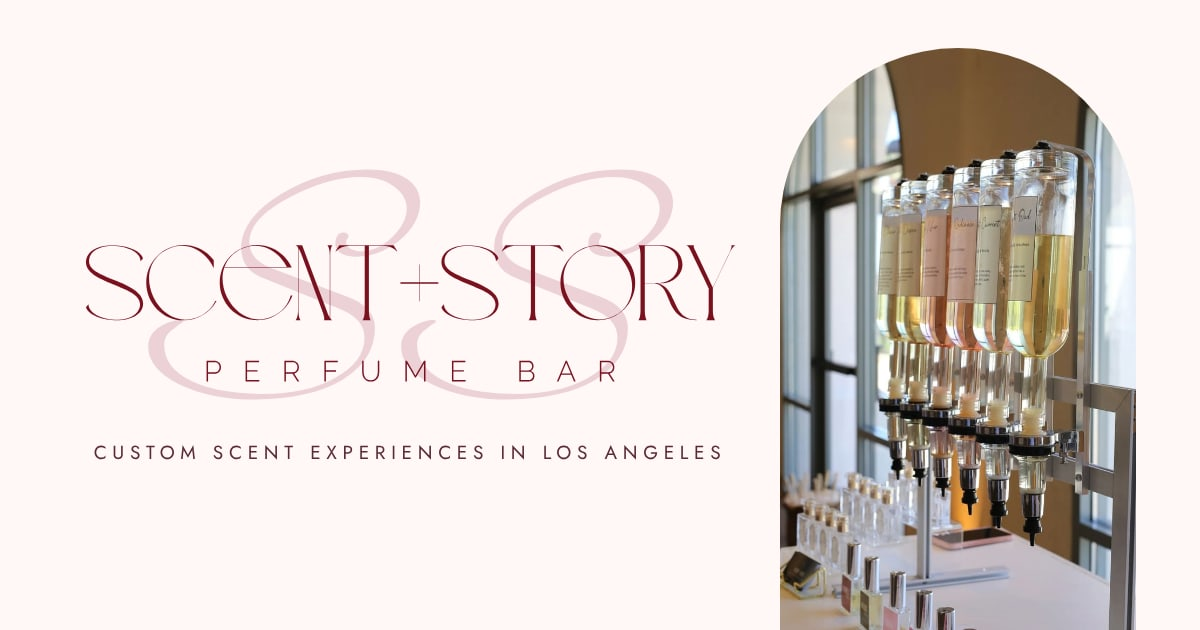
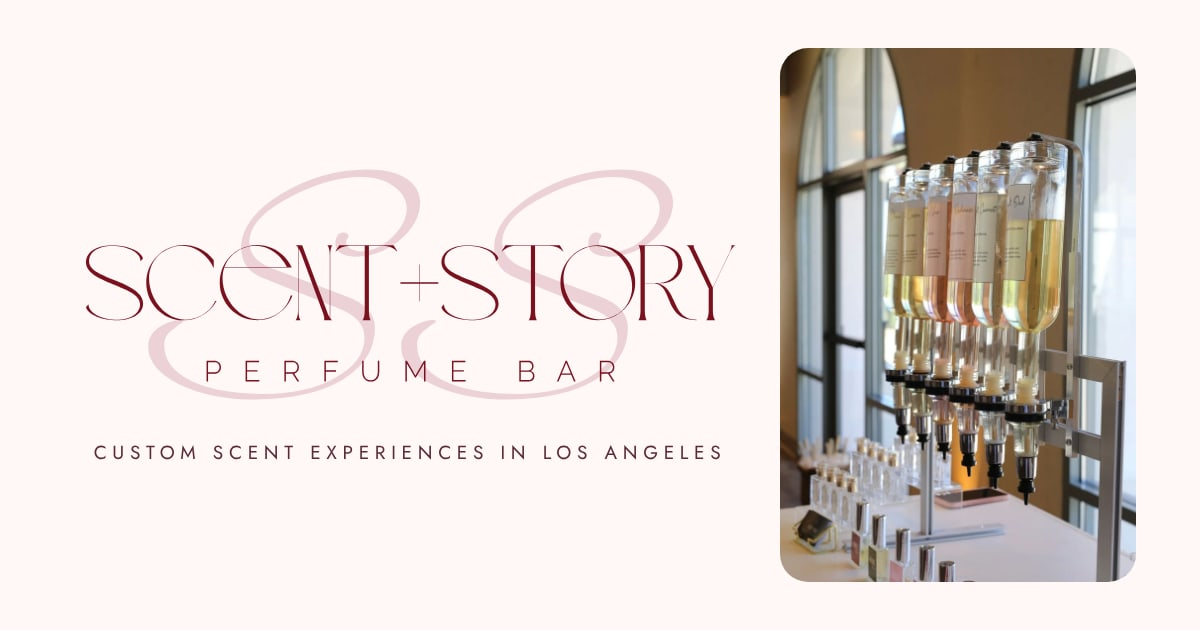
Drop the arch shape and fit the experience steps to any height
Every arched frame (hero, story, experience steps, notes, occasions,
packages, inquiry and the share image) is now a softly rounded
rectangle, and the hero zoom eases its corners from that radius.

The horizontal experience section sizes each step from the available
viewport height: photos shrink while the step text keeps its space,
type scales with svh, and the stagger uses transforms instead of extra
height. Below 34em of height (short windows or heavy browser zoom) the
section falls back to the stacked grid instead of pinning. Testimonial
quotes scale with height too. Verified with no clipped text from
1440x900 down to 720x450 and on phones in both orientations.

Scroll anchoring is off while the scroll driven layout runs, since it
pulled the page back after jumping to a section.

Claude-Session: https://claude.ai/code/session_017sCmnz6Y6ric2Efeva8pF5

Changed region(s): [[0.6475, 0.0603, 0.9558, 1.0]]

diff --git a/static/css/main.css b/static/css/main.css
@@ -47,7 +47,6 @@
   --section-y: clamp(5.5rem, 12vw, 11rem);
   --radius: 1.25rem;
   --radius-lg: clamp(1.25rem, 2.5vw, 2.25rem);
-  --arch: 999px 999px 0.75rem 0.75rem;
 
   --ease-out: cubic-bezier(0.16, 1, 0.3, 1);
   --ease-in-out: cubic-bezier(0.76, 0, 0.24, 1);
@@ -169,7 +168,7 @@ p { text-wrap: pretty; }
 .h1 { font-size: var(--step-h1); }
 .h2 { font-size: var(--step-h2); }
 
-.arch { border-radius: var(--arch); overflow: hidden; }
+.rounded { border-radius: var(--radius); overflow: hidden; }
 
 .icon { flex: none; }
 
@@ -426,8 +425,8 @@ a:hover .roll__b, a:focus-visible .roll__b { transform: translateY(0); }
 .hero__actions { display: flex; flex-wrap: wrap; align-items: center; gap: 1rem 2rem; }
 
 .hero__media { position: relative; justify-self: center; width: min(100%, 30rem); }
-.hero__arch { position: relative; aspect-ratio: 3 / 4; background: var(--rose); }
-.hero__arch picture, .hero__arch img { position: absolute; inset: 0; width: 100%; height: 100%; }
+.hero__frame { position: relative; aspect-ratio: 3 / 4; background: var(--rose); }
+.hero__frame picture, .hero__frame img { position: absolute; inset: 0; width: 100%; height: 100%; }
 .hero__img img { object-fit: cover; height: 116%; top: -8%; }
 
 .hero__badge {
@@ -526,8 +525,7 @@ a:hover .roll__b, a:focus-visible .roll__b { transform: translateY(0); }
   margin: 0;
 }
 .step { display: grid; gap: 1.25rem; align-content: start; }
-.step__media { position: relative; aspect-ratio: 4 / 5; overflow: hidden; border-radius: 0.75rem; background: var(--rose); }
-.step__media.arch { border-radius: var(--arch); }
+.step__media { position: relative; aspect-ratio: 4 / 5; overflow: hidden; border-radius: var(--radius); background: var(--rose); }
 .step__media picture, .step__media img { width: 100%; height: 100%; }
 .step__media img { object-fit: cover; }
 .step__body { display: grid; gap: 0.6rem; max-width: 24rem; }
@@ -535,28 +533,48 @@ a:hover .roll__b, a:focus-visible .roll__b { transform: translateY(0); }
 .step__title { font-size: var(--step-h3); }
 .step__body p { color: var(--ink-soft); }
 
-/* horizontal mode, switched on by JS when motion is allowed */
+/* horizontal mode, switched on by JS when motion is allowed and the window is
+   tall enough. Every size below is derived from the available height, so the
+   photo shrinks first and the text always stays on screen at any zoom level. */
 .is-horizontal .process__pin {
   display: flex;
-  align-items: center;
-  min-height: 100svh;
-  padding-block: calc(var(--header-h) + 1rem) 2rem;
+  height: 100svh;
+  padding-block: calc(var(--header-h) + clamp(0.75rem, 3svh, 2rem)) clamp(1rem, 4svh, 2.5rem);
   overflow: hidden;
 }
-.is-horizontal .process__viewport { width: 100%; }
+.is-horizontal .process__viewport { width: 100%; height: 100%; }
 .is-horizontal .process__track {
   display: flex;
-  align-items: center;
+  align-items: stretch;
   gap: clamp(3rem, 6vw, 7rem);
+  height: 100%;
   width: max-content;
   margin: 0;
   padding-inline: var(--gutter) 12vw;
   will-change: transform;
 }
-.is-horizontal .process__head { width: clamp(17rem, 34vw, 32rem); flex: none; }
-.is-horizontal .process__steps { display: flex; align-items: flex-start; gap: clamp(2rem, 5vw, 5rem); }
-.is-horizontal .step { flex: none; width: calc(min(54svh, 34rem) * 0.8); }
-.is-horizontal .step:nth-child(even) { margin-top: clamp(2rem, 9svh, 6rem); }
+.is-horizontal .process__head { align-self: center; width: clamp(17rem, 34vw, 32rem); flex: none; gap: clamp(0.75rem, 2.5svh, 1.25rem); }
+.is-horizontal .process__head .h2 { font-size: min(var(--step-h2), 10.5svh); }
+.is-horizontal .process__intro { font-size: min(var(--step-lead), 3.2svh); }
+.is-horizontal .process__steps { display: flex; align-items: center; gap: clamp(2rem, 5vw, 5rem); height: 100%; }
+.is-horizontal .step {
+  flex: none;
+  display: grid;
+  grid-template-rows: minmax(0, 1fr) auto;
+  gap: clamp(0.6rem, 2svh, 1.25rem);
+  width: min(74vw, 22rem);
+  height: min(88%, 46rem);
+}
+.is-horizontal .step:nth-child(odd) { transform: translateY(-4%); }
+.is-horizontal .step:nth-child(even) { transform: translateY(4%); }
+.is-horizontal .step__media { aspect-ratio: auto; height: 100%; min-height: 0; }
+.is-horizontal .step__body { gap: clamp(0.25rem, 1svh, 0.6rem); }
+.is-horizontal .step__num { font-size: min(1.375rem, 3.4svh); line-height: 1.2; }
+.is-horizontal .step__title { font-size: min(var(--step-h3), 4.8svh); }
+.is-horizontal .step__body p { font-size: min(var(--step-body), 2.9svh); line-height: 1.55; }
+@media (min-width: 48em) {
+  .is-horizontal .step { width: clamp(15rem, 25vw, 23rem); }
+}
 .is-horizontal .step__media img { width: 118%; max-width: none; margin-left: -9%; }
 
 /* ------------------------------------------------------------------ packages */
@@ -838,14 +856,17 @@ a:hover .roll__b, a:focus-visible .roll__b { transform: translateY(0); }
   display: flex;
   flex-direction: column;
   justify-content: center;
-  gap: clamp(1.5rem, 4vh, 3rem);
-  min-height: 100svh;
-  padding-block: calc(var(--header-h) + 1.5rem) 2.5rem;
+  gap: clamp(1rem, 4svh, 3rem);
+  height: 100svh;
+  padding-block: calc(var(--header-h) + clamp(0.75rem, 3svh, 1.5rem)) clamp(1rem, 4svh, 2.5rem);
+  overflow: hidden;
 }
 .is-sequenced .voices__head { margin-bottom: 0; }
 .is-sequenced .quotes { display: grid; grid-template-columns: 1fr; }
 .is-sequenced .quote { grid-area: 1 / 1; margin: 0 !important; align-self: center; }
-.is-sequenced .quote__text { font-size: clamp(2.5rem, 1rem + 5.4vw, 7rem); line-height: 1.02; letter-spacing: -0.025em; max-width: 16ch; }
+.is-sequenced .quote__text { font-size: min(clamp(2.5rem, 1rem + 5.4vw, 7rem), 9.5svh); line-height: 1.04; letter-spacing: -0.025em; max-width: 16ch; }
+.is-sequenced .voices__head .h2 { font-size: min(var(--step-h2), 9svh); }
+.is-sequenced .voices__head { gap: clamp(0.5rem, 2svh, 1.25rem); }
 .is-sequenced .quote__cite { font-size: 0.875rem; }
 .is-sequenced .voices__count { display: block; align-self: flex-end; }
 
@@ -1105,7 +1126,7 @@ a:hover .roll__b, a:focus-visible .roll__b { transform: translateY(0); }
 .hero__reveal { display: none; }
 .hero.has-zoom .hero__copy { position: relative; z-index: 2; }
 .hero.has-zoom .hero__media { z-index: 3; }
-.hero.has-zoom .hero__arch { will-change: transform; transform-origin: 50% 50%; }
+.hero.has-zoom .hero__frame { will-change: transform; transform-origin: 50% 50%; }
 .hero.has-zoom .hero__reveal {
   position: absolute;
   inset: 0;
@@ -1206,12 +1227,15 @@ a:hover .roll__b, a:focus-visible .roll__b { transform: translateY(0); }
 .motion [data-split],
 .motion [data-hero-title] { visibility: hidden; }
 .motion [data-reveal] { clip-path: inset(100% 0 0 0); }
-.motion [data-hero-arch] picture { clip-path: inset(100% 0 0 0); }
+.motion [data-hero-frame] picture { clip-path: inset(100% 0 0 0); }
 .motion [data-footer-logo] img { opacity: 0; transform: translate3d(0, 25%, 0); }
 .motion .split-char { will-change: transform; }
 .motion [data-gallery-item] { clip-path: inset(100% 0 0 0); }
 
-/* Lenis smooth scrolling */
+/* Lenis smooth scrolling. Scroll anchoring is switched off while the
+   scroll driven layout is active; it otherwise nudges the page back when
+   jumping to a section. */
+html.motion { overflow-anchor: none; }
 html.lenis, html.lenis body { height: auto; }
 .lenis:not(.lenis-autoToggle).lenis-stopped { overflow: clip; }
 .lenis [data-lenis-prevent] { overscroll-behavior: contain; }
@@ -1230,7 +1254,7 @@ html.lenis, html.lenis body { height: auto; }
 
 @media print {
   .site-header, .menu, .skip-link, .marquee, .hero__badge, .intro, .hero__reveal, .notes__word, .occasions__visual { display: none !important; }
-  .motion [data-fade], .motion [data-hero-fade], .motion [data-reveal], .motion [data-hero-arch] picture,
+  .motion [data-fade], .motion [data-hero-fade], .motion [data-reveal], .motion [data-hero-frame] picture,
   .motion [data-footer-logo] img, .motion [data-split], .motion [data-hero-title] {
     opacity: 1 !important; transform: none !important; clip-path: none !important; visibility: visible !important;
   }

diff --git a/static/js/main.js b/static/js/main.js
@@ -425,10 +425,10 @@
         },
       });
     }
-    var arch = $('[data-hero-arch] picture');
-    if (arch) {
-      tl.fromTo(arch, { clipPath: 'inset(100% 0% 0% 0%)' }, { clipPath: 'inset(0% 0% 0% 0%)', duration: 1.8, ease: 'expo.inOut' }, 0);
-      tl.from($('img', arch), { scale: 1.35, duration: 2.4, ease: 'expo.out' }, 0.2);
+    var frame = $('[data-hero-frame] picture');
+    if (frame) {
+      tl.fromTo(frame, { clipPath: 'inset(100% 0% 0% 0%)' }, { clipPath: 'inset(0% 0% 0% 0%)', duration: 1.8, ease: 'expo.inOut' }, 0);
+      tl.from($('img', frame), { scale: 1.35, duration: 2.4, ease: 'expo.out' }, 0.2);
     }
     tl.to('[data-hero-fade]', { opacity: 1, y: 0, duration: 1.4, stagger: 0.1 }, 0.55);
     tl.fromTo('.hero__eyebrow', { letterSpacing: '0.7em' }, { letterSpacing: '0.28em', duration: 2, ease: 'expo.out' }, 0.55);
@@ -440,7 +440,7 @@
   function initHeroScroll() {
     var hero = $('.hero');
     if (!hero) return;
-    var arch = $('[data-hero-arch]');
+    var frame = $('[data-hero-frame]');
     var media = $('.hero__media');
     var copy = $('.hero__copy');
     var revealLines = $$('[data-hero-reveal] .hero__reveal-line > span');
@@ -483,11 +483,11 @@
       var geo = function () {
         var vw = hero.clientWidth;
         var vh = window.innerHeight;
-        var w = arch.offsetWidth;
-        var h = arch.offsetHeight;
-        var left = media.offsetLeft + arch.offsetLeft;
-        var top = media.offsetTop + arch.offsetTop;
-        return { dx: vw / 2 - (left + w / 2), dy: vh / 2 - (top + h / 2), s: Math.max(vw / w, vh / h) * 1.04, r: w / 2 };
+        var w = frame.offsetWidth;
+        var h = frame.offsetHeight;
+        var left = media.offsetLeft + frame.offsetLeft;
+        var top = media.offsetTop + frame.offsetTop;
+        return { dx: vw / 2 - (left + w / 2), dy: vh / 2 - (top + h / 2), s: Math.max(vw / w, vh / h) * 1.02 };
       };
       var tl = gsap.timeline({
         scrollTrigger: {
@@ -501,10 +501,10 @@
           onUpdate: function (self) { reveal(self.progress > 0.62); },
         },
       });
-      tl.fromTo(arch,
-        { x: 0, y: 0, scale: 1, borderTopLeftRadius: function () { return geo().r; }, borderTopRightRadius: function () { return geo().r; } },
-        { x: function () { return geo().dx; }, y: function () { return geo().dy; }, scale: function () { return geo().s; }, borderTopLeftRadius: 0, borderTopRightRadius: 0, borderBottomLeftRadius: 0, borderBottomRightRadius: 0, ease: 'power2.inOut', duration: 1 }, 0)
-        .to('[data-hero-arch] picture', { scale: 1.1, ease: 'none', duration: 1.3 }, 0)
+      tl.fromTo(frame,
+        { x: 0, y: 0, scale: 1 },
+        { x: function () { return geo().dx; }, y: function () { return geo().dy; }, scale: function () { return geo().s; }, borderRadius: 0, ease: 'power2.inOut', duration: 1 }, 0)
+        .to('[data-hero-frame] picture', { scale: 1.1, ease: 'none', duration: 1.3 }, 0)
         .to('[data-hero-shade]', { opacity: 1, ease: 'power1.in', duration: 0.6 }, 0.35)
         .to('[data-hero-badge]', { scale: 0, opacity: 0, duration: 0.3, ease: 'power2.in' }, 0)
         .to(copy, { y: -90, ease: 'none', duration: 1 }, 0)
@@ -611,51 +611,63 @@
     if (!section) return;
     var pin = $('[data-process-pin]', section);
     var track = $('[data-process-track]', section);
-    section.classList.add('is-horizontal');
+
     gsap.fromTo(section, { clipPath: 'inset(0% 4% 0% 4% round 2.5rem)' }, {
       clipPath: 'inset(0% 0% 0% 0% round 0rem)',
       ease: 'none',
       scrollTrigger: { trigger: section, start: 'top bottom', end: 'top top', scrub: true },
     });
 
-    var distance = function () { return Math.max(0, track.scrollWidth - window.innerWidth); };
-    var tween = gsap.to(track, {
-      x: function () { return -distance(); },
-      ease: 'none',
-      scrollTrigger: {
-        trigger: pin,
-        start: 'top top',
-        end: function () { return '+=' + distance(); },
-        pin: true,
-        scrub: 0.8,
-        anticipatePin: 1,
-        invalidateOnRefresh: true,
-      },
+    // Pin and scroll sideways only when the window is tall enough for the
+    // steps to fit; shorter windows (or heavy browser zoom) get the stacked grid.
+    var mm = gsap.matchMedia();
+    mm.add('(min-height: 34em)', function () {
+      section.classList.add('is-horizontal');
+      var distance = function () { return Math.max(0, track.scrollWidth - window.innerWidth); };
+      var tween = gsap.to(track, {
+        x: function () { return -distance(); },
+        ease: 'none',
+        scrollTrigger: {
+          trigger: pin,
+          start: 'top top',
+          end: function () { return '+=' + distance(); },
+          pin: true,
+          scrub: 0.8,
+          anticipatePin: 1,
+          invalidateOnRefresh: true,
+        },
+      });
+
+      $$('.step', track).forEach(function (step) {
+        var media = $('.step__media', step);
+        var img = $('img', step);
+        gsap.fromTo(media, { clipPath: 'inset(18% 10% 18% 10%)' }, {
+          clipPath: 'inset(0% 0% 0% 0%)',
+          ease: 'none',
+          scrollTrigger: { trigger: step, containerAnimation: tween, start: 'left 100%', end: 'left 55%', scrub: true },
+        });
+        if (img) {
+          gsap.fromTo(img, { xPercent: -6 }, {
+            xPercent: 6,
+            ease: 'none',
+            scrollTrigger: { trigger: step, containerAnimation: tween, start: 'left right', end: 'right left', scrub: true },
+          });
+        }
+        gsap.from($('.step__body', step), {
+          y: 40,
+          opacity: 0,
+          ease: 'none',
+          scrollTrigger: { trigger: step, containerAnimation: tween, start: 'left 95%', end: 'left 60%', scrub: true },
+        });
+      });
+      gsap.to($$('[data-fade]', track), { opacity: 1, y: 0, stagger: 0.1, scrollTrigger: { trigger: section, start: 'top 75%', once: true } });
+
+      return function () { section.classList.remove('is-horizontal'); };
     });
 
-    $$('.step', track).forEach(function (step) {
-      var media = $('.step__media', step);
-      var img = $('img', step);
-      gsap.fromTo(media, { clipPath: 'inset(18% 10% 18% 10%)' }, {
-        clipPath: 'inset(0% 0% 0% 0%)',
-        ease: 'none',
-        scrollTrigger: { trigger: step, containerAnimation: tween, start: 'left 100%', end: 'left 55%', scrub: true },
-      });
-      if (img) {
-        gsap.fromTo(img, { xPercent: -6 }, {
-          xPercent: 6,
-          ease: 'none',
-          scrollTrigger: { trigger: step, containerAnimation: tween, start: 'left right', end: 'right left', scrub: true },
-        });
-      }
-      gsap.from($('.step__body', step), {
-        y: 40,
-        opacity: 0,
-        ease: 'none',
-        scrollTrigger: { trigger: step, containerAnimation: tween, start: 'left 95%', end: 'left 60%', scrub: true },
-      });
+    mm.add('(max-height: 33.99em)', function () {
+      gsap.to($$('[data-fade]', track), { opacity: 1, y: 0, stagger: 0.1, scrollTrigger: { trigger: section, start: 'top 80%', once: true } });
     });
-    gsap.to($$('[data-fade]', track), { opacity: 1, y: 0, stagger: 0.1, scrollTrigger: { trigger: section, start: 'top 75%', once: true } });
   }
 
   /* -------------------------------------------------------------- stacked packages */
@@ -786,7 +798,7 @@
     });
   }
 
-  /* -------------------------------------------------------------- occasions: sticky arch follows the active item */
+  /* -------------------------------------------------------------- occasions: sticky frame follows the active item */
   function initOccasions() {
     var section = $('[data-occasions]');
     if (!section) return;

diff --git a/src/pages/index.html b/src/pages/index.html
@@ -26,7 +26,7 @@
           </div>
         </div>
         <div class="hero__media">
-          <div class="arch hero__arch" data-hero-arch>
+          <div class="rounded hero__frame" data-hero-frame>
             {{pic:hero|A tall row of glass fragrance dispensers, each filled with a different perfume, beside arched windows at a wedding venue.|(min-width: 64em) 38vw, 88vw|eager|hero__img}}
             <span class="hero__shade" aria-hidden="true" data-hero-shade></span>
           </div>
@@ -53,7 +53,7 @@
         <figure class="statement__img statement__img--a" data-speed="-0.6">
           <div class="statement__frame" data-reveal>{{pic:labeled|Perfume bottles with elegant oval Scent and Story labels lined up on an acrylic stand.|(min-width: 64em) 22vw, 60vw|lazy}}</div>
         </figure>
-        <figure class="statement__img statement__img--b arch" data-speed="0.5">
+        <figure class="statement__img statement__img--b rounded" data-speed="0.5">
           <div class="statement__frame" data-reveal>{{pic:menuhands|A guest fills a bottle from a dispenser labeled Blush Rose, sweet, floral and powdery, beside a framed scent menu.|(min-width: 64em) 20vw, 50vw|lazy}}</div>
         </figure>
       </div>
@@ -96,7 +96,7 @@
             </ol>
           </div>
           <div class="notes__visual" aria-hidden="true">
-            <div class="notes__frame arch" data-notes-frame>
+            <div class="notes__frame rounded" data-notes-frame>
               {{pic:menuhands||(min-width: 64em) 30vw, 80vw|lazy}}
               {{pic:pinkshawl||(min-width: 64em) 30vw, 80vw|lazy}}
               {{pic:handbottle||(min-width: 64em) 30vw, 80vw|lazy}}
@@ -118,7 +118,7 @@
           </div>
           <ol class="process__steps" role="list">
             <li class="step">
-              <figure class="step__media arch">{{pic:pinkbar|A blush pink perfume bar styled outdoors with gold capped bottles and a row of fragrance dispensers.|(min-width: 48em) 30vw, 75vw|lazy}}</figure>
+              <figure class="step__media rounded">{{pic:pinkbar|A blush pink perfume bar styled outdoors with gold capped bottles and a row of fragrance dispensers.|(min-width: 48em) 30vw, 75vw|lazy}}</figure>
               <div class="step__body">
                 <span class="step__num" aria-hidden="true">01</span>
                 <h3 class="step__title">Arrive at the bar</h3>
@@ -134,7 +134,7 @@
               </div>
             </li>
             <li class="step">
-              <figure class="step__media arch">{{pic:redhair|A guest pauses to breathe in her blend at an outdoor perfume bar at golden hour.|(min-width: 48em) 30vw, 75vw|lazy}}</figure>
+              <figure class="step__media rounded">{{pic:redhair|A guest pauses to breathe in her blend at an outdoor perfume bar at golden hour.|(min-width: 48em) 30vw, 75vw|lazy}}</figure>
               <div class="step__body">
                 <span class="step__num" aria-hidden="true">03</span>
                 <h3 class="step__title">Blend with a mixologist</h3>
@@ -150,7 +150,7 @@
               </div>
             </li>
             <li class="step">
-              <figure class="step__media arch">{{pic:handbottle|A finished bottle of custom perfume held up in the warm light of an evening celebration.|(min-width: 48em) 30vw, 75vw|lazy}}</figure>
+              <figure class="step__media rounded">{{pic:handbottle|A finished bottle of custom perfume held up in the warm light of an evening celebration.|(min-width: 48em) 30vw, 75vw|lazy}}</figure>
               <div class="step__body">
                 <span class="step__num" aria-hidden="true">05</span>
                 <h3 class="step__title">Leave wearing the memory</h3>
@@ -185,7 +185,7 @@
         </div>
         <div class="occasions__grid">
           <div class="occasions__visual" aria-hidden="true">
-            <div class="occasions__frame arch" data-occasion-frame>
+            <div class="occasions__frame rounded" data-occasion-frame>
               {{pic:pinkshawl||(min-width: 64em) 34vw, 1px|lazy}}
               {{pic:bridalbottles||(min-width: 64em) 34vw, 1px|lazy}}
               {{pic:redhair||(min-width: 64em) 34vw, 1px|lazy}}
@@ -351,7 +351,7 @@
           <h2 id="inquire-title" class="h2" data-split>Let’s create your <em>signature scent</em></h2>
           <p data-fade>Ready to explore? Share a few details with us, and we’ll gladly guide you toward the fragrance that feels just right.</p>
           <p class="inquire__direct" data-fade>Prefer email? <a href="mailto:{{site.email}}">{{site.email}}</a></p>
-          <figure class="inquire__img arch" data-reveal>{{pic:labeled|Custom perfume bottles with oval labels catching the evening light.|(min-width: 64em) 26vw, 80vw|lazy}}</figure>
+          <figure class="inquire__img rounded" data-reveal>{{pic:labeled|Custom perfume bottles with oval labels catching the evening light.|(min-width: 64em) 26vw, 80vw|lazy}}</figure>
         </div>
 {{> form}}
       </div>
